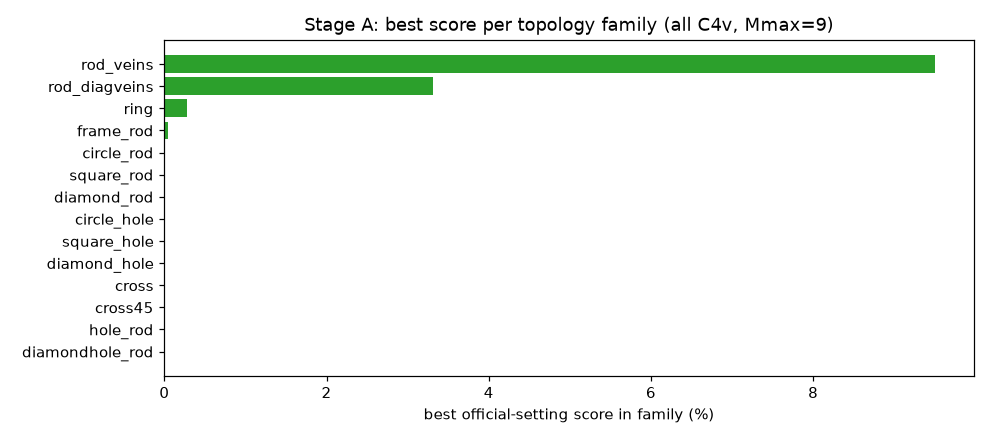
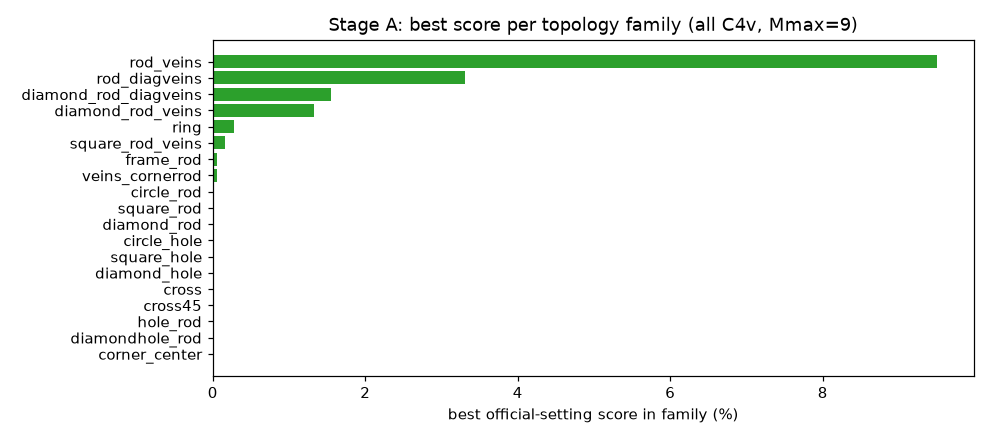
PC project: Stage A complete (1027 structures, 19 families), family figures and log
Claude-Session: https://claude.ai/code/session_01JwPji8wSgeTdfhpRAT8kBv

diff --git a/pc_termproject/docs/optimization_log.md b/pc_termproject/docs/optimization_log.md
@@ -96,3 +96,32 @@ Lessons:
   harmless; only a *uniform* shift of all boundaries (fill change of ±3.5 %) closes the gap.
 * Gray-start continuous runs for the pair TM3-4/TE2-3 (3 seeds) converge to poor topologies (≤ 0 % after refinement):
   the parametric seed (rods + veins) is essential — the physics-guided start beats blind search.
+
+## 3b. Stage A complete: 1027 C4v structures, 19 families (SURROGATE-OFFICIAL, exact basis, wedge)
+
+| family | n | best score | params | fill | gap pair | # with score > 0 |
+|---|---|---|---|---|---|---|
+| rod_veins | 110 | 9.50 % | [0.32, 0.08] | 0.383 | TM3-4/TE2-3 | 3 |
+| rod_diagveins | 110 | 3.31 % | [0.32, 0.16] | 0.541 | TM4-5/TE3-4 | 4 |
+| diamond_rod_diagveins | 66 | 1.55 % | [0.6, 0.14] | 0.565 | TM4-5/TE3-4 | 1 |
+| diamond_rod_veins | 66 | 1.32 % | [0.6, 0.06] | 0.379 | TM3-4/TE2-3 | 2 |
+| ring | 41 | 0.28 % | [0.5, 0.3] | 0.502 | TM4-5/TE2-3 | 1 |
+| square_rod_veins | 66 | 0.16 % | [0.25, 0.18] | 0.344 | TM3-4/TE1-2 | 1 |
+| frame_rod | 78 | 0.05 % | [0.16, 0.1] | 0.336 | TM3-4/TE1-2 | 1 |
+| veins_cornerrod | 42 | 0.05 % | [0.16, 0.1] | 0.336 | TM3-4/TE1-2 | 1 |
+| circle_rod | 21 | 0.00 % | [0.08] | 0.020 | - | 0 |
+| square_rod | 16 | 0.00 % | [0.15] | 0.021 | - | 0 |
+| diamond_rod | 19 | 0.00 % | [0.15] | 0.024 | - | 0 |
+| circle_hole | 22 | 0.00 % | [0.2] | 0.874 | - | 0 |
+| square_hole | 23 | 0.00 % | [0.3] | 0.915 | - | 0 |
+| diamond_hole | 14 | 0.00 % | [0.3] | 0.909 | - | 0 |
+| cross | 56 | 0.00 % | [0.3, 0.05] | 0.023 | - | 0 |
+| cross45 | 84 | 0.00 % | [0.3, 0.05] | 0.029 | - | 0 |
+| hole_rod | 80 | 0.00 % | [0.3, 0.05] | 0.725 | - | 0 |
+| diamondhole_rod | 65 | 0.00 % | [0.4, 0.05] | 0.844 | - | 0 |
+| corner_center | 48 | 0.00 % | [0.05, 0.1] | 0.039 | - | 0 |
+
+Conclusions: (i) no single-inclusion family (rods, holes, crosses, rings, hole+rod, frame+rod, two-sublattice rods)
+opens a complete gap at the target — H1/H2 confirmed and H3 required; (ii) every hit is an island + connected-network
+hybrid; (iii) the gap pair is always a higher TM gap (3-4 or 4-5) with a low TE gap (1-2, 2-3 or 3-4) — H4 confirmed;
+(iv) rods + straight veins is the dominant family by a factor 3 (9.50 % vs 3.31 % for diagonal veins).
